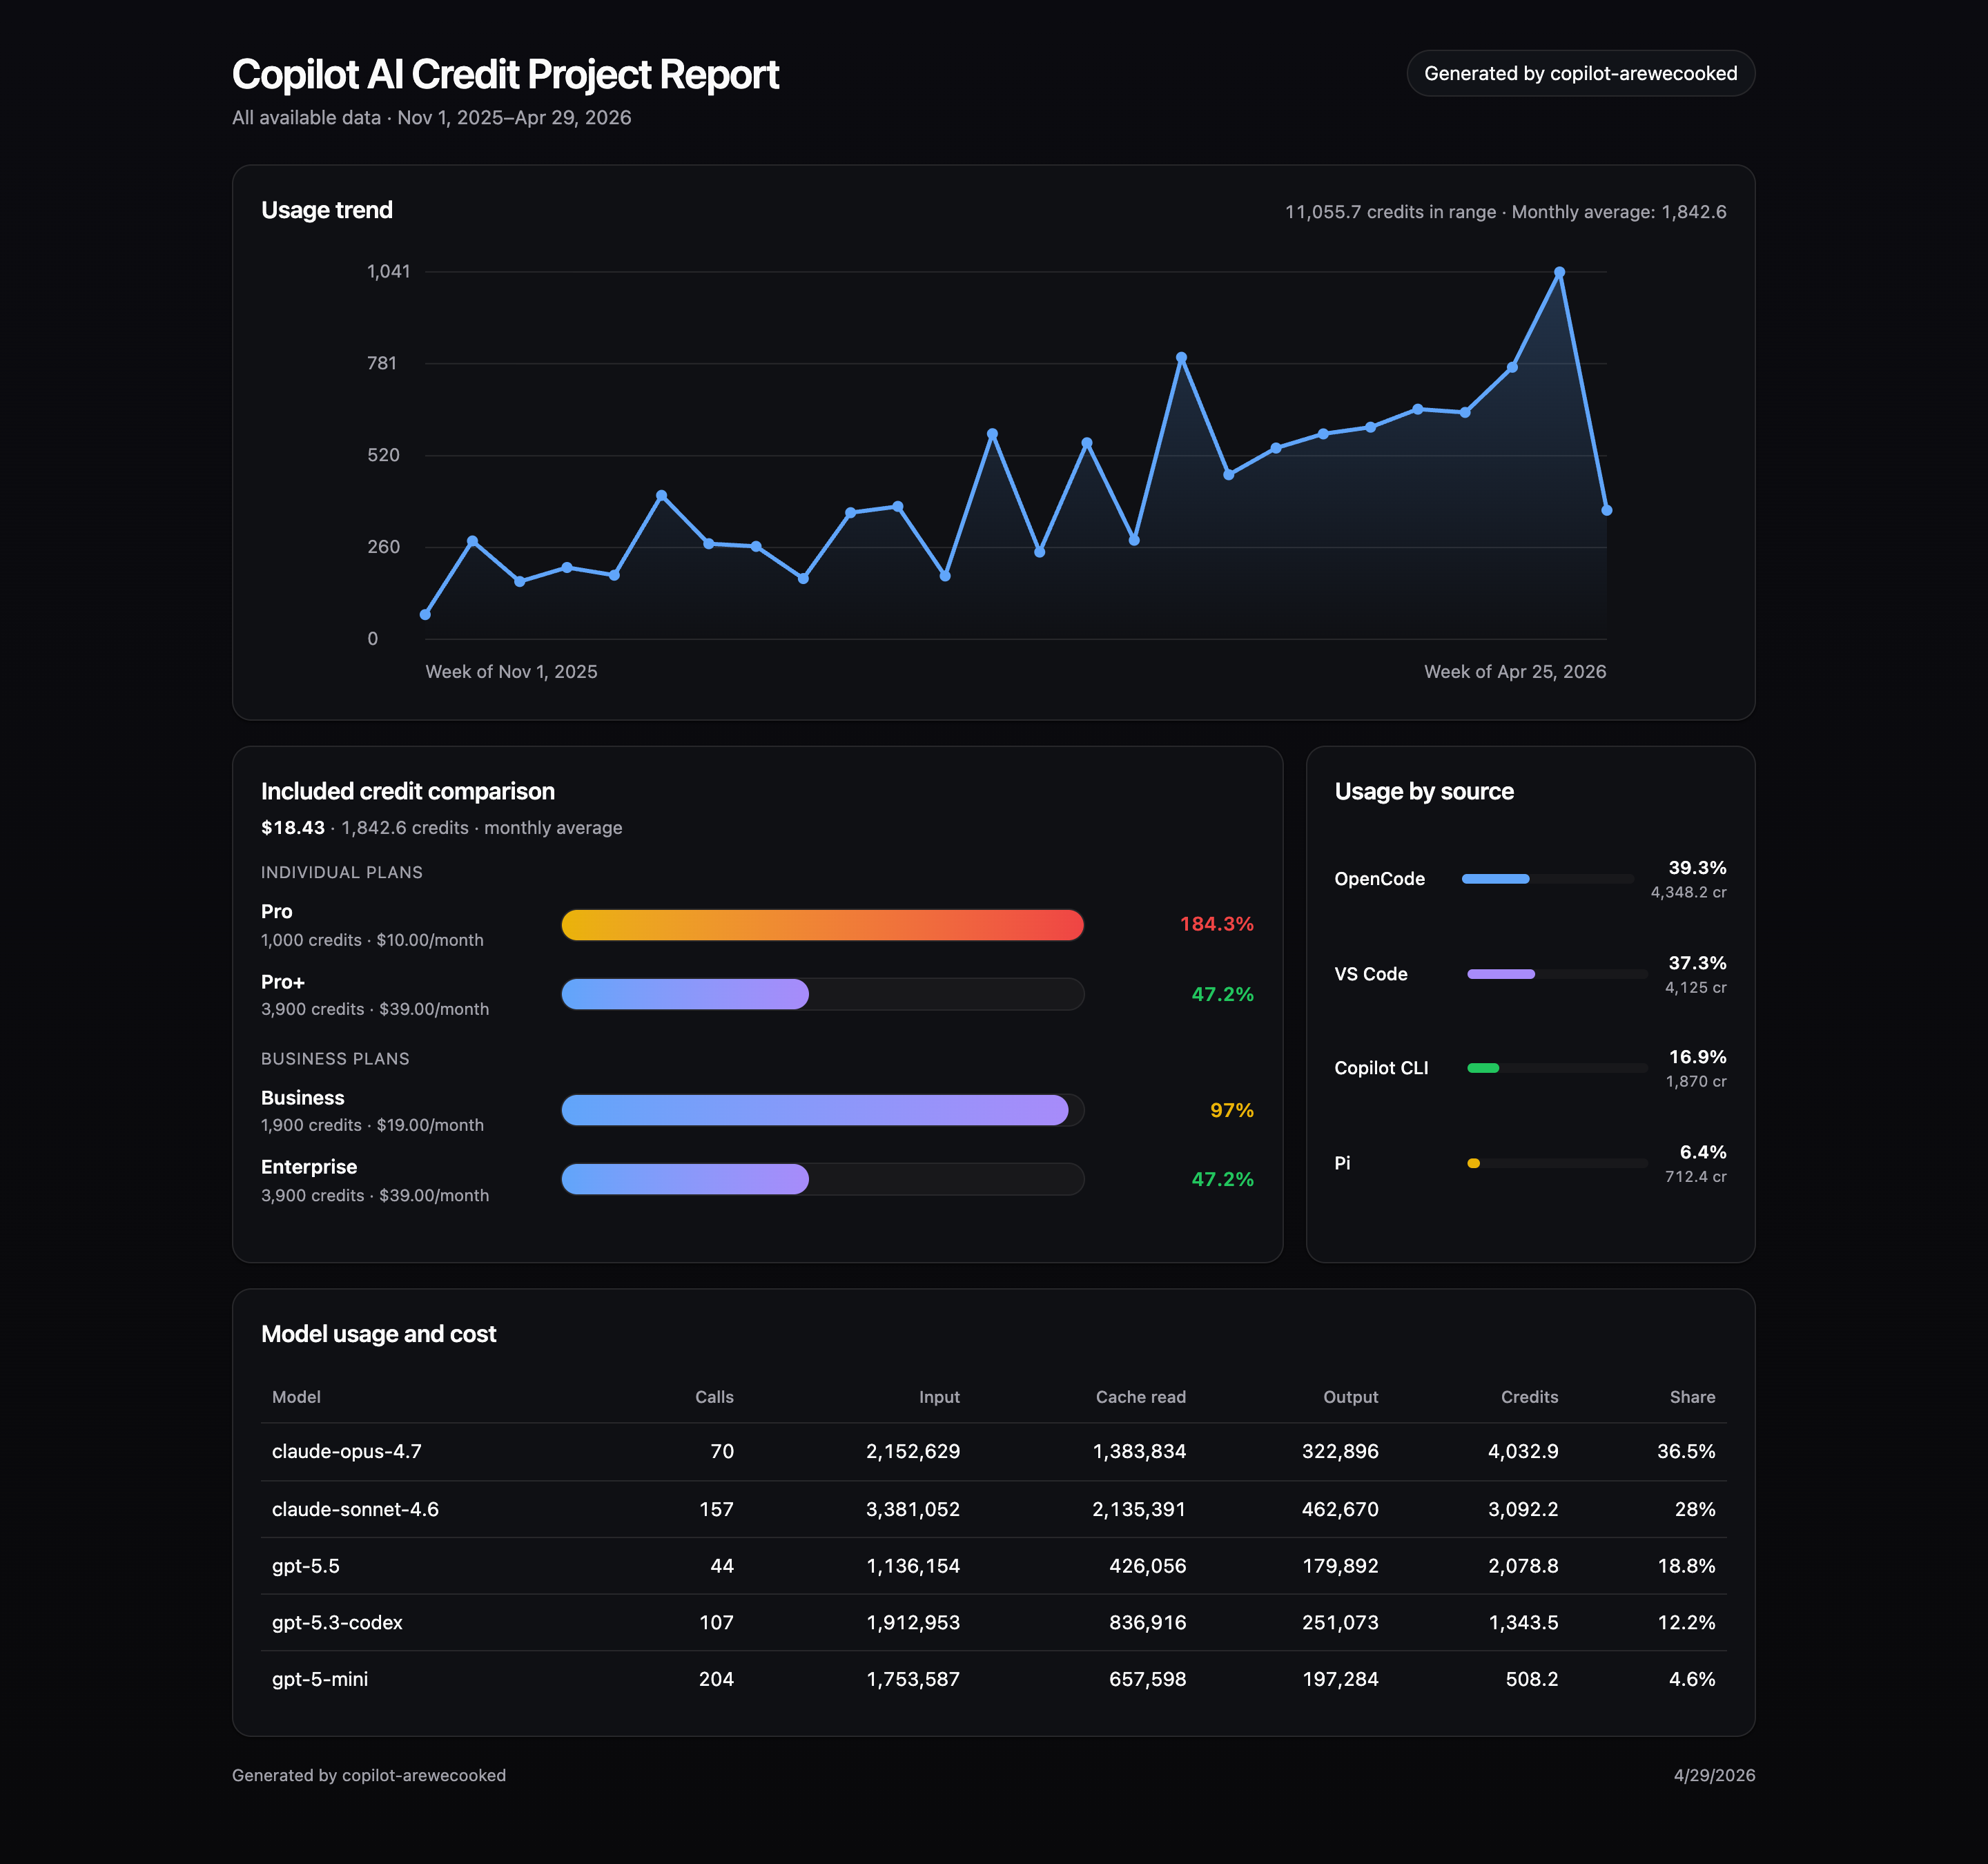
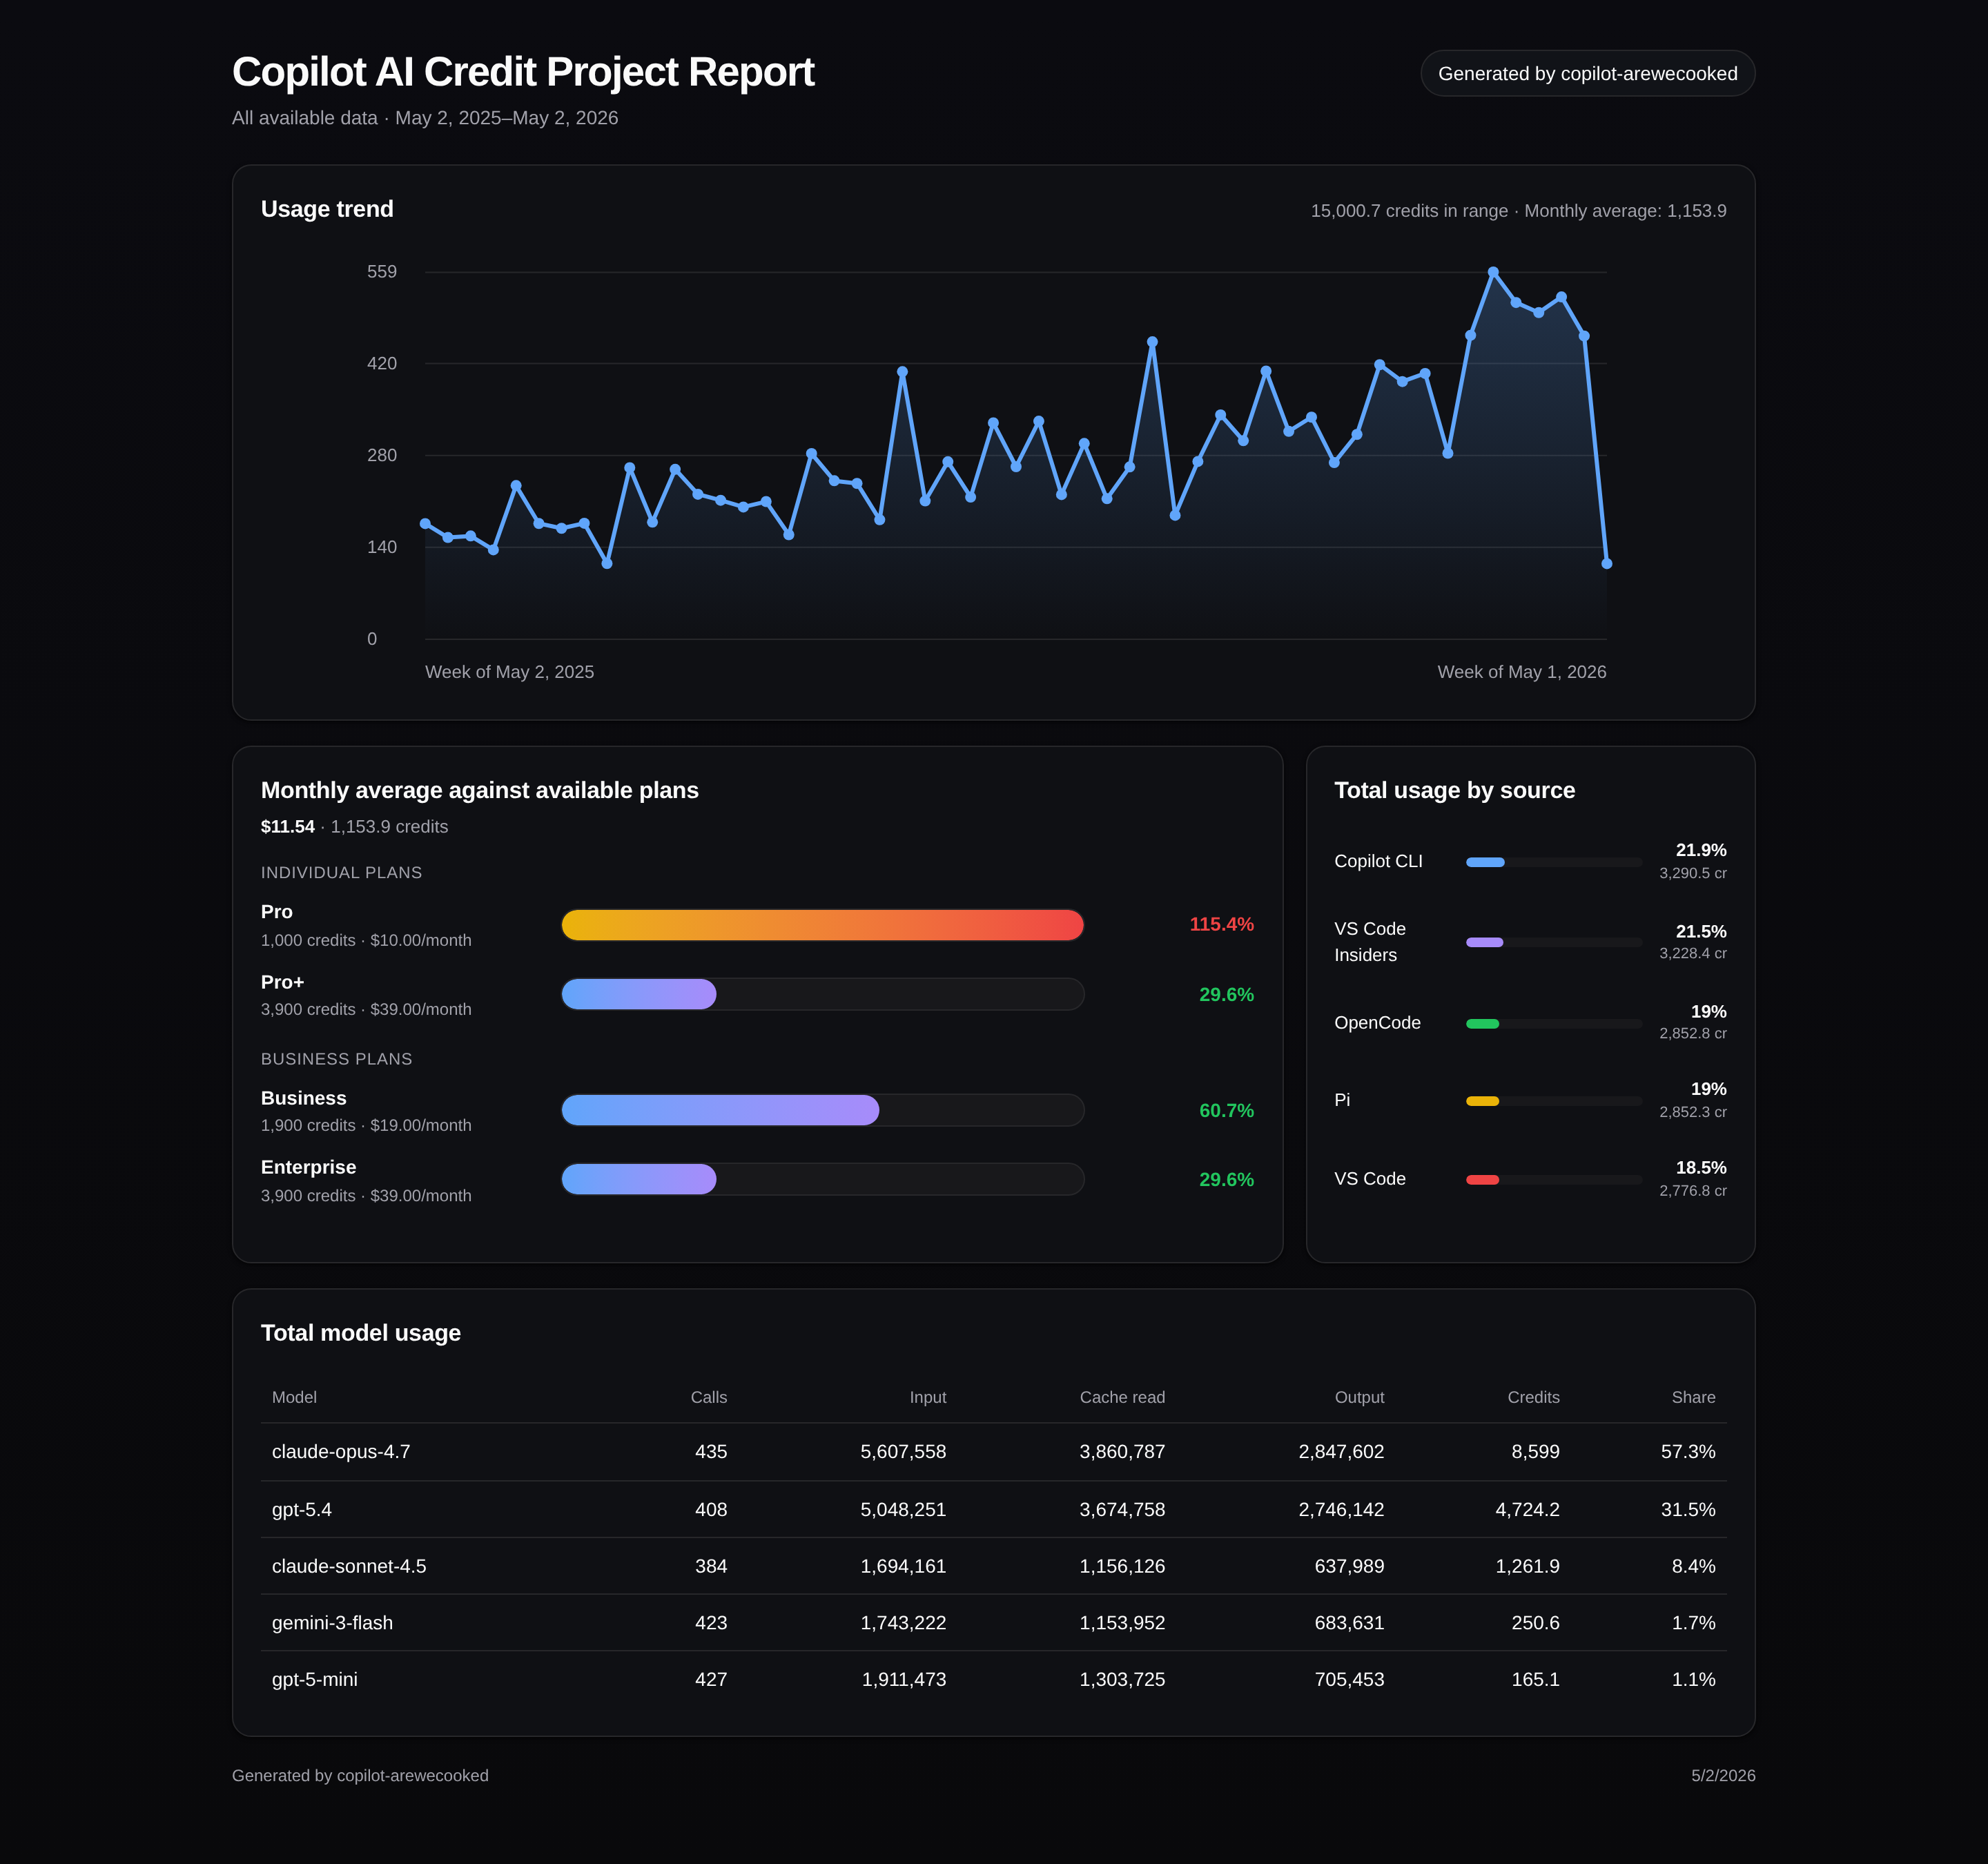
Merge pull request #57 from PanAchy/docs/update-report-preview

Pull request: docs(readme): update report preview
## What changed

- Regenerate the README report preview image from the latest report renderer.

## Context

The README screenshot should match the current HTML report styling and layout.

## Test plan

- [x] npm run build
- [x] npx tsx src/mock.ts --html /tmp/report-preview.html

diff --git a/src/mock.ts b/src/mock.ts
@@ -54,8 +54,9 @@ function generateYearOfData(): UsageRecord[] {
 
       // Bigger models = more tokens
       const isBigModel = model.includes("opus") || model.includes("gpt-5.4");
-      const inputMult = isBigModel ? 3 : 1;
-      const outputMult = isBigModel ? 4 : 1;
+      const previewScale = 2.3;
+      const inputMult = (isBigModel ? 3 : 1) * previewScale;
+      const outputMult = (isBigModel ? 4 : 1) * previewScale;
 
       const ts = new Date(d);
       ts.setHours(Math.floor(rand(8, 22)), Math.floor(rand(0, 60)));
@@ -72,7 +73,7 @@ function generateYearOfData(): UsageRecord[] {
         inputTokens: Math.floor(rand(800, 5000) * inputMult * rampFactor),
         outputTokens: Math.floor(rand(200, 2000) * outputMult * rampFactor),
         cacheReadTokens: Math.floor(rand(0, 4000) * inputMult * rampFactor),
-        cacheWriteTokens: Math.floor(rand(0, 500) * rampFactor),
+        cacheWriteTokens: Math.floor(rand(0, 500) * previewScale * rampFactor),
         calls: 1,
       });
     }

diff --git a/src/html.ts b/src/html.ts
@@ -296,9 +296,9 @@ export function renderHtml(summary: Summary): string {
 <body class="report-body"><main class="wrap">
 <header class="top"><div><h1 class="title">Copilot AI Credit Project Report</h1><div class="sub">${escapeHtml(reportRange(summary))}</div></div><a class="repo" href="https://github.com/PanAchy/copilot-arewecooked">Generated by copilot-arewecooked</a></header>
 ${warnings}${autoModelNote}<section class="card"><div class="section-head"><h2 class="section-title">Usage trend</h2><div class="head-meta">${fmtCredits(summary.totals.credits)} credits in range · ${comparison.label}: ${fmtCredits(comparison.credits)}</div></div><div class="chart">${renderTrend(trend)}</div></section>
-<div class="middle"><section class="card plan-card"><div class="section-head"><div><h2 class="section-title">Included credit comparison (${escapeHtml(comparison.label.toLowerCase())})</h2><div class="plan-subtitle"><strong>${fmtUsd(comparison.credits / 100)}</strong> · ${fmtCredits(comparison.credits)} credits</div></div></div><div class="plan-groups">${renderPlanGroups(summary, comparison.credits)}</div></section>
-<section class="card source-card"><h2 class="section-title">Usage by source (total)</h2><div class="source-bars">${sources}</div></section></div>
-<section class="card"><div class="section-head"><h2 class="section-title">Model usage and cost (total)</h2></div><table><thead><tr><th>Model</th><th class="right">Calls</th><th class="right">Input</th><th class="right">Cache read</th><th class="right">Output</th><th class="right">Credits</th><th class="right">Share</th></tr></thead><tbody>${renderModelRows(summary)}</tbody></table></section>
+<div class="middle"><section class="card plan-card"><div class="section-head"><div><h2 class="section-title">${escapeHtml(comparison.label)} against available plans</h2><div class="plan-subtitle"><strong>${fmtUsd(comparison.credits / 100)}</strong> · ${fmtCredits(comparison.credits)} credits</div></div></div><div class="plan-groups">${renderPlanGroups(summary, comparison.credits)}</div></section>
+<section class="card source-card"><h2 class="section-title">Total usage by source</h2><div class="source-bars">${sources}</div></section></div>
+<section class="card"><div class="section-head"><h2 class="section-title">Total model usage</h2></div><table><thead><tr><th>Model</th><th class="right">Calls</th><th class="right">Input</th><th class="right">Cache read</th><th class="right">Output</th><th class="right">Credits</th><th class="right">Share</th></tr></thead><tbody>${renderModelRows(summary)}</tbody></table></section>
 <footer class="foot"><span>Generated by <a href="https://github.com/PanAchy/copilot-arewecooked">copilot-arewecooked</a></span><span>${new Date(summary.generatedAt).toLocaleDateString()}</span></footer>
 </main></body></html>`;
 }